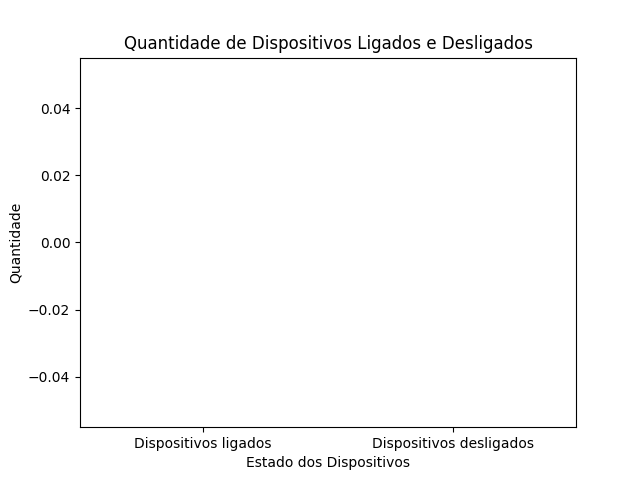
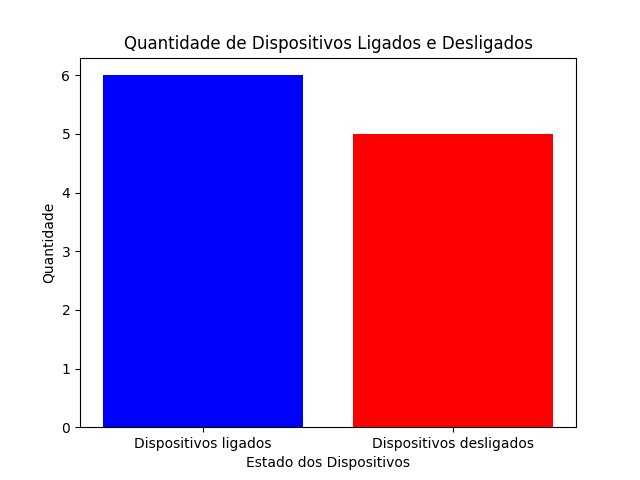
FIX: foram consertados métodos da classe banco de dados

diff --git a/BancoDeDados.py b/BancoDeDados.py
@@ -37,7 +37,8 @@ class BancoDeDados:
                 cursor.execute(arquivoBD.read(), multi=True)
                 
                 print("Tabelas criadas no banco de dados")
-
+                
+            #Fechamento do cursor
             cursor.close()
         
         #Impressão de erro caso a conexão com o banco de dados falhe
@@ -78,7 +79,8 @@ class BancoDeDados:
             pass
   
     
-    """método para inserir erros na tabela erro, onde é passado o tipo de erro, o IMEI do dispositivo e a data do erro, 
+    """
+    método para inserir erros na tabela erro, onde é passado o tipo de erro, o IMEI do dispositivo e a data do erro, 
     não é preciso passar o id_erro pois ele é auto incremento.
     """
     def inserir_erro(self, tipo_erro, fk_dispositivo_erro, data_erro):
@@ -97,7 +99,9 @@ class BancoDeDados:
         #Recuperação do IMEI do dispositivo
         query = "SELECT imei FROM dispositivo WHERE imei = %s"
         cursor.execute(query, (fk_dispositivo_erro,))
-        imei_select = cursor.fetchone() #Recuperação da proxima linha do resultado da consulta e atribuição a variavel imei_select
+        
+        #Recuperação da proxima linha do resultado da consulta e atribuição a variavel imei_select
+        imei_select = cursor.fetchone() 
 
         #Verificação se o dispositivo foi encontrado
         if imei_select:
@@ -138,7 +142,9 @@ class BancoDeDados:
         #Recuperação do IMEI do dispositivo
         query = "SELECT imei FROM dispositivo WHERE imei = %s"
         cursor.execute(query, (fk_dispositivo_mensagem,))
-        imei_select = cursor.fetchone() #Recuperação da proxima linha do resultado da consulta e atribuição a variavel imei_select
+        
+        #Recuperação da proxima linha do resultado da consulta e atribuição a variavel imei_select
+        imei_select = cursor.fetchone() 
         
         #Verificação se o dispositivo foi encontrado
         if imei_select:
@@ -154,6 +160,7 @@ class BancoDeDados:
         
         #Confirmação da ação no banco
         self.conexao.commit()
+        
         #Fechamento do cursor
         cursor.close()
 
@@ -177,7 +184,9 @@ class BancoDeDados:
         #Recuperação dos dispositivos cadastrados
         query = "SELECT * FROM dispositivo"
         cursor.execute(query)
-        dispositivos = cursor.fetchall() #Recuperação de todas as linhas do resultado da consulta e atribuição a variavel dispositivos
+        
+        #Recuperação de todas as linhas do resultado da consulta e atribuição a variavel dispositivos
+        dispositivos = cursor.fetchall() 
         
         #Fechamento do cursor
         cursor.close() 
@@ -189,7 +198,7 @@ class BancoDeDados:
     """
     Método para retornar os erros cadastrados na tabela erro
     """
-    def retorna_erro(self):
+    def retorna_erros(self):
         
         #Conexão com o banco de dados
         self.conexao = mysql.connector.connect(
@@ -205,7 +214,9 @@ class BancoDeDados:
         #Recuperação dos erros cadastrados
         query = "SELECT * FROM erro"
         cursor.execute(query)
-        erros = cursor.fetchall() #Recuperação de todas as linhas do resultado da consulta e atribuição a variavel erros
+        
+        #Recuperação de todas as linhas do resultado da consulta e atribuição a variavel erros
+        erros = cursor.fetchall() 
 
         #Fechamento do cursor
         cursor.close()
@@ -217,7 +228,7 @@ class BancoDeDados:
     """
     Método para retornar as mensagens cadastradas na tabela mensagem
     """   
-    def retorna_mensagem(self):
+    def retorna_mensagens(self):
         
         #Conexão com o banco de dados
         self.conexao = mysql.connector.connect(
@@ -233,7 +244,9 @@ class BancoDeDados:
         #Recuperação das mensagens cadastradas
         query = "SELECT * FROM mensagem"
         cursor.execute(query)
-        mensagens = cursor.fetchall() #Recuperação de todas as linhas do resultado da consulta e atribuição a variavel mensagens
+        
+        #Recuperação de todas as linhas do resultado da consulta e atribuição a variavel mensagens
+        mensagens = cursor.fetchall()
       
         #Fechamento do cursor
         cursor.close()
@@ -324,7 +337,7 @@ class BancoDeDados:
         
     
     """
-    Método para alterar a mensagem de dispositivos cadastrados na tabela mensagem através do fk_dispositivo_mensagem(imei)
+    Método para alterar a mensagem de dispositivos cadastrados na tabela mensagem através do imei do dispositivo e o tipo da mensagem
     """ 
     def atualiza_mensagem(self, fk_dispositivo_mensagem, tipo_mensagem): 
         #Conexão com o banco de dados
@@ -438,9 +451,6 @@ class BancoDeDados:
         #Atribuição da data atual
         data_atual = datetime.now()
         
-        #Criação de uma variável para armazenar a data 24 horas atrás
-        menos_24_horas = data_atual - timedelta(hours=24)
-        
         #Recuperação dos dispositivos que estão sem reportar
         query ="SELECT DISTINCT fk_dispositivo_mensagem FROM mensagem"
         cursor.execute(query)
@@ -455,6 +465,8 @@ class BancoDeDados:
         #Verificação do tempo que os dispositivos estão 
         for dispositivo in dispositivos:
             fk_dispositivo_mensagem = dispositivo[0]
+            
+            #Recuperação da última mensagem do dispositivo
             ultima_mensagem = self.ultima_mensagem(fk_dispositivo_mensagem)[0]
 
             #Cálculo do tempo que o dispositivo está sem reportar
@@ -463,11 +475,13 @@ class BancoDeDados:
             #Verificação do status do dispositivo
             if tempo_sem_reportar > timedelta(hours=24):
                 status = "critical"
+                
                 #Adição dos resultados a lista
                 resultados.append((fk_dispositivo_mensagem, status, (tempo_sem_reportar.total_seconds()/ 60)))
               
             elif timedelta(hours=24) >= tempo_sem_reportar > timedelta(seconds=31):
                 status = "warning"
+                
                 #Adição dos resultados a lista
                 resultados.append((fk_dispositivo_mensagem, status, (tempo_sem_reportar.total_seconds()/ 60)))     
         
@@ -495,17 +509,17 @@ class BancoDeDados:
         cursor = conexao.cursor() 
         
         #Recuperação dos dispositivos que estão ligados
-        query = "SELECT fk_dispositivo_mensagem FROM mensagem WHERE tipo_mensagem IN ('power_on', 'timebased') AND fk_dispositivo_mensagem NOT IN (SELECT fk_dispositivo_mensagem FROM mensagem WHERE tipo_mensagem = 'poweroff')"
+        query = "SELECT DISTINCT fk_dispositivo_mensagem FROM mensagem WHERE tipo_mensagem IN ('power_on', 'timebased')"
         cursor.execute(query)
         
-        #Recuperação de todas as linhas do resultado da consulta e atribuição a variavel dispositivos_ligados
+        #Atribuição de todas as linhas do resultado da consulta e atribuição a variavel dispositivos_ligados
         dispositivos_ligados = len(cursor.fetchall())
-        
+    
         #Recuperação dos dispositivos que estão desligados
-        query = "SELECT fk_dispositivo_mensagem FROM mensagem WHERE tipo_mensagem IN 'poweroff' AND fk_dispositivo_mensagem NOT IN (SELECT fk_dispositivo_mensagem FROM mensagem WHERE tipo_mensagem IN ('power_on', 'timebased'))"
+        query = "SELECT DISTINCT fk_dispositivo_mensagem FROM mensagem WHERE tipo_mensagem = 'power_off'" 
         cursor.execute(query)
         
-        #Recuperação de todas as linhas do resultado da consulta e atribuição a variavel dispositivos_desligados
+        #Atribuição de todas as linhas do resultado da consulta e atribuição a variavel dispositivos_desligados
         dispositivos_desligados = len(cursor.fetchall())
         
         #Definição dos rótulos do gráfico
@@ -515,7 +529,8 @@ class BancoDeDados:
         values = [dispositivos_ligados, dispositivos_desligados]
         
         #Criação do gráfico
-        plt.bar(labels, values)
+        colors = ['blue', 'red']
+        plt.bar(labels, values, color=colors)
         plt.xlabel('Estado dos Dispositivos')
         plt.ylabel('Quantidade')
         plt.title('Quantidade de Dispositivos Ligados e Desligados')
@@ -526,7 +541,7 @@ class BancoDeDados:
         #Fechamento do cursor
         cursor.close()
 
-        #Retorno do nome do arquivo gerado
+        #Retorno do arquivo gerado
         return 'grafico_equipamentos.png'
     
     

diff --git a/simuladorDeMaquinas.py b/simuladorDeMaquinas.py
@@ -4,12 +4,12 @@ import time
 from bancoDeDados import *
 
 """
-    Método q
+    Método 
 """
 def simular_maquinas():
     lista_de_IMEIS = []
     lista_de_tipo_mensagem = []
-    for i in range(1,1001):
+    for i in range(1,10):
         IMEI = int(random.randint(10000000,99999999))
         lista_de_IMEIS.append(IMEI)
         data_de_fabricacao = datetime(random.randint(2015, 2024), random.randint(1, 12), random.randint(1, 28), random.randint(0, 23), random.randint(0, 59), random.randint(0, 59))
@@ -21,6 +21,7 @@ def simular_maquinas():
         lista_de_tipo_mensagem.append(tipo_mensagem)
 
         bd.inserir_dispositivos(IMEI, str(data_de_fabricacao))
+        
 
         if tipo_de_erro != None:
             bd.inserir_erro(tipo_de_erro, IMEI, str(data_do_erro))
@@ -43,6 +44,7 @@ def simular_maquinas():
                 tipo_mensagem = "timebased"
                 bd.atualiza_mensagem(lista_de_IMEIS[imei], tipo_mensagem)
             
+            bd.dispositivos_online_30m()
             lista_de_tipo_mensagem[imei] = tipo_mensagem
 
             

diff --git a/main.py b/main.py
@@ -44,12 +44,12 @@ def exibir_dispositivos_online():
 
 if __name__ == "__main__":
     #threading.Thread(target=simular_maquinas).start()
-    #bd.dispositivos_offline()
-    #bd.dispositivos_online_30m()
+    
+    # #bd.dispositivos_online_30m()
     bd.grafico_equipamentos()
     # bd.inserir_dispositivos(123456784, "2021-05-20 12:00:00")
     # bd.inserir_mensagem("power_off", 123456784, "2021-05-20 12:00:00")
-    #bd.dispositivos_que_nao_reportam()
+    # bd.dispositivos_que_nao_reportam()
     
     
     
